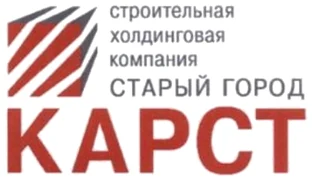
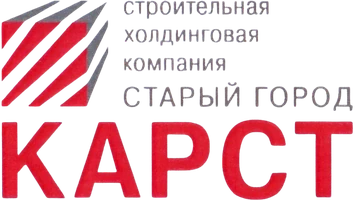
feat: логотипы партнёров в хорошем качестве

diff --git a/o-kompanii.html b/o-kompanii.html
@@ -19,8 +19,8 @@
 <link rel="preconnect" href="https://fonts.googleapis.com">
 <link rel="preconnect" href="https://fonts.gstatic.com" crossorigin>
 <link rel="stylesheet" href="https://fonts.googleapis.com/css2?family=Forum&family=Manrope:wght@400;500;600;700;800&display=swap">
-<link rel="stylesheet" href="css/site.css?v=mwvo2v0e">
-<link rel="stylesheet" href="css/variant.css?v=mwvo2v0e">
+<link rel="stylesheet" href="css/site.css?v=mwvoab7h">
+<link rel="stylesheet" href="css/variant.css?v=mwvoab7h">
 <script>document.documentElement.classList.add('js')</script>
 </head>
 <body class="v-foto">
@@ -56,6 +56,22 @@
   <div class="wrap">
     <div class="sec-head rv"><span class="eyebrow">Партнёры</span><h2>Наши партнёры</h2><p class="sub">Работаем с крупными строительными и промышленными компаниями России.</p></div>
     <ul class="partners"><li class="partner rv"><img src="img/partners/mostotrest.webp" alt="Мостотрест" title="Мостотрест" loading="lazy" decoding="async"></li><li class="partner rv"><img src="img/partners/specmost.webp" alt="Спецмост" title="Спецмост" loading="lazy" decoding="async"></li><li class="partner rv"><img src="img/partners/mostostroy-6.webp" alt="Мостострой-6" title="Мостострой-6" loading="lazy" decoding="async"></li><li class="partner rv"><img src="img/partners/volgatransstroy.webp" alt="Группа компаний «Волгатрансстрой»" title="Группа компаний «Волгатрансстрой»" loading="lazy" decoding="async"></li><li class="partner rv"><img src="img/partners/uvz.webp" alt="Уралвагонзавод" title="Уралвагонзавод" loading="lazy" decoding="async"></li><li class="partner rv"><img src="img/partners/moselektroshchit.webp" alt="Мосэлектрощит" title="Мосэлектрощит" loading="lazy" decoding="async"></li><li class="partner rv"><img src="img/partners/osk-1520.webp" alt="Объединённая строительная компания 1520" title="Объединённая строительная компания 1520" loading="lazy" decoding="async"></li><li class="partner rv"><img src="img/partners/karst.webp" alt="Строительная холдинговая компания «Старый город» КАРСТ" title="Строительная холдинговая компания «Старый город» КАРСТ" loading="lazy" decoding="async"></li><li class="partner rv"><img src="img/partners/us-620.webp" alt="620 Управление строительства" title="620 Управление строительства" loading="lazy" decoding="async"></li><li class="partner rv"><img src="img/partners/moselektro.webp" alt="Мосэлектро" title="Мосэлектро" loading="lazy" decoding="async"></li><li class="partner rv"><img src="img/partners/mostootryad-47.webp" alt="Мостоотряд-47 ФСК" title="Мостоотряд-47 ФСК" loading="lazy" decoding="async"></li><li class="partner rv"><img src="img/partners/rotfront.webp" alt="Рот Фронт" title="Рот Фронт" loading="lazy" decoding="async"></li><li class="partner rv"><img src="img/partners/mostostroy-11.webp" alt="Мостострой-11" title="Мостострой-11" loading="lazy" decoding="async"></li><li class="partner rv"><img src="img/partners/promstroy-nn.webp" alt="Дорожно-строительная компания «Промстрой НН»" title="Дорожно-строительная компания «Промстрой НН»" loading="lazy" decoding="async"></li></ul>
+  </div>
+</section>
+
+<section class="sec objects-sec" id="obekty">
+  <div class="wrap">
+    <div class="sec-head rv"><span class="eyebrow">Объекты</span><h2>Наши объекты</h2><p class="sub">Работали на стройках федерального масштаба.</p></div>
+    <div class="objects"><article class="object rv">
+      <div class="object-pic"><img class="photo-img" src="img/photos/s/obj-lakhta.jpg" alt="Многофункциональный комплекс «Лахта-центр»" width="640" height="427" loading="lazy" decoding="async"></div>
+      <div class="object-body"><span class="object-city">г. Санкт-Петербург</span><h3>Многофункциональный комплекс «Лахта-центр»</h3><p>Штаб-квартира группы «Газпром» и общественные пространства. Самый высокий небоскрёб России и Европы.</p></div>
+    </article><article class="object rv">
+      <div class="object-pic"><img class="photo-img" src="img/photos/s/obj-stadium-nn.jpg" alt="Стадион «Нижний Новгород»" width="640" height="320" loading="lazy" decoding="async"></div>
+      <div class="object-body"><span class="object-city">г. Нижний Новгород</span><h3>Стадион «Нижний Новгород»</h3><p>Построен к чемпионату мира по футболу 2018 года. Наши специалисты участвовали в возведении стадиона.</p></div>
+    </article><article class="object rv">
+      <div class="object-pic"><img class="photo-img" src="img/photos/s/obj-sochi-airport.jpg" alt="Международный аэропорт Сочи" width="640" height="400" loading="lazy" decoding="async"></div>
+      <div class="object-body"><span class="object-city">г. Сочи</span><h3>Международный аэропорт Сочи</h3><p>Включён в программу строительства олимпийских объектов к зимним Играм 2014 года.</p></div>
+    </article></div>
   </div>
 </section>
 <section class="sec sec-ice">
@@ -138,7 +154,7 @@
   <button class="btn btn-main btn-sm" type="button" data-cookie-ok>Понятно</button>
 </div>
 
-<script src="js/config.js?v=mwvo2v0e"></script>
-<script src="js/site.js?v=mwvo2v0e" defer></script>
+<script src="js/config.js?v=mwvoab7h"></script>
+<script src="js/site.js?v=mwvoab7h" defer></script>
 </body>
 </html>

diff --git a/index.html b/index.html
@@ -19,8 +19,8 @@
 <link rel="preconnect" href="https://fonts.googleapis.com">
 <link rel="preconnect" href="https://fonts.gstatic.com" crossorigin>
 <link rel="stylesheet" href="https://fonts.googleapis.com/css2?family=Forum&family=Manrope:wght@400;500;600;700;800&display=swap">
-<link rel="stylesheet" href="css/site.css?v=mwvo2v0e">
-<link rel="stylesheet" href="css/variant.css?v=mwvo2v0e">
+<link rel="stylesheet" href="css/site.css?v=mwvoab7h">
+<link rel="stylesheet" href="css/variant.css?v=mwvoab7h">
 <script>document.documentElement.classList.add('js')</script>
 </head>
 <body class="is-home v-foto">
@@ -161,6 +161,22 @@
   </div>
 </section>
 
+<section class="sec objects-sec" id="obekty">
+  <div class="wrap">
+    <div class="sec-head rv"><span class="eyebrow">Объекты</span><h2>Наши объекты</h2><p class="sub">Работали на стройках федерального масштаба.</p></div>
+    <div class="objects"><article class="object rv">
+      <div class="object-pic"><img class="photo-img" src="img/photos/s/obj-lakhta.jpg" alt="Многофункциональный комплекс «Лахта-центр»" width="640" height="427" loading="lazy" decoding="async"></div>
+      <div class="object-body"><span class="object-city">г. Санкт-Петербург</span><h3>Многофункциональный комплекс «Лахта-центр»</h3><p>Штаб-квартира группы «Газпром» и общественные пространства. Самый высокий небоскрёб России и Европы.</p></div>
+    </article><article class="object rv">
+      <div class="object-pic"><img class="photo-img" src="img/photos/s/obj-stadium-nn.jpg" alt="Стадион «Нижний Новгород»" width="640" height="320" loading="lazy" decoding="async"></div>
+      <div class="object-body"><span class="object-city">г. Нижний Новгород</span><h3>Стадион «Нижний Новгород»</h3><p>Построен к чемпионату мира по футболу 2018 года. Наши специалисты участвовали в возведении стадиона.</p></div>
+    </article><article class="object rv">
+      <div class="object-pic"><img class="photo-img" src="img/photos/s/obj-sochi-airport.jpg" alt="Международный аэропорт Сочи" width="640" height="400" loading="lazy" decoding="async"></div>
+      <div class="object-body"><span class="object-city">г. Сочи</span><h3>Международный аэропорт Сочи</h3><p>Включён в программу строительства олимпийских объектов к зимним Играм 2014 года.</p></div>
+    </article></div>
+  </div>
+</section>
+
 <section class="sec sec-ice">
   <div class="wrap">
     <div class="sec-head sec-head-row rv"><div><span class="eyebrow">Отзывы</span><h2>Что говорят сотрудники</h2></div>
@@ -265,7 +281,7 @@
   <button class="btn btn-main btn-sm" type="button" data-cookie-ok>Понятно</button>
 </div>
 
-<script src="js/config.js?v=mwvo2v0e"></script>
-<script src="js/site.js?v=mwvo2v0e" defer></script>
+<script src="js/config.js?v=mwvoab7h"></script>
+<script src="js/site.js?v=mwvoab7h" defer></script>
 </body>
 </html>

diff --git a/credits.html b/credits.html
@@ -19,8 +19,8 @@
 <link rel="preconnect" href="https://fonts.googleapis.com">
 <link rel="preconnect" href="https://fonts.gstatic.com" crossorigin>
 <link rel="stylesheet" href="https://fonts.googleapis.com/css2?family=Forum&family=Manrope:wght@400;500;600;700;800&display=swap">
-<link rel="stylesheet" href="css/site.css?v=mwvo2v0e">
-<link rel="stylesheet" href="css/variant.css?v=mwvo2v0e">
+<link rel="stylesheet" href="css/site.css?v=mwvoab7h">
+<link rel="stylesheet" href="css/variant.css?v=mwvoab7h">
 <script>document.documentElement.classList.add('js')</script>
 </head>
 <body class="v-foto">
@@ -90,6 +90,21 @@
       <div><b>Монтажник</b>
         <span>Монтажник</span>
         <span>Фото предоставлено компанией</span></div>
+    </li><li class="cred">
+      <img src="img/photos/s/obj-lakhta.jpg" alt="" width="120" height="80" loading="lazy" decoding="async">
+      <div><b>Лахта-центр, Санкт-Петербург</b>
+        <span>Лахта-центр, Санкт-Петербург · автор: Linus Folke Jensen</span>
+        <span>Лицензия: CC BY-SA 4.0 · источник: Wikimedia Commons · <a href="https://commons.wikimedia.org/wiki/File:Lakhta_Center_July_2019_(2).jpg" target="_blank" rel="noopener nofollow">страница фото</a></span></div>
+    </li><li class="cred">
+      <img src="img/photos/s/obj-sochi-airport.jpg" alt="" width="120" height="80" loading="lazy" decoding="async">
+      <div><b>Международный аэропорт Сочи</b>
+        <span>Международный аэропорт Сочи · автор: Vasilii Martynov</span>
+        <span>Лицензия: CC0 · источник: Wikimedia Commons · <a href="https://commons.wikimedia.org/wiki/File:Sochi_International_Airport_1.jpg" target="_blank" rel="noopener nofollow">страница фото</a></span></div>
+    </li><li class="cred">
+      <img src="img/photos/s/obj-stadium-nn.jpg" alt="" width="120" height="80" loading="lazy" decoding="async">
+      <div><b>Стадион «Нижний Новгород»</b>
+        <span>Стадион «Нижний Новгород» · автор: A.Savin</span>
+        <span>Лицензия: FAL · источник: Wikimedia Commons · <a href="https://commons.wikimedia.org/wiki/File:Nizhny_Novgorod_Stadium_asv2019-05.jpg" target="_blank" rel="noopener nofollow">страница фото</a></span></div>
     </li><li class="cred">
       <img src="img/photos/s/raznorabochiy.jpg" alt="" width="120" height="80" loading="lazy" decoding="async">
       <div><b>Объект: подготовка площадки</b>
@@ -169,7 +184,7 @@
   <button class="btn btn-main btn-sm" type="button" data-cookie-ok>Понятно</button>
 </div>
 
-<script src="js/config.js?v=mwvo2v0e"></script>
-<script src="js/site.js?v=mwvo2v0e" defer></script>
+<script src="js/config.js?v=mwvoab7h"></script>
+<script src="js/site.js?v=mwvoab7h" defer></script>
 </body>
 </html>

diff --git a/css/site.css b/css/site.css
@@ -520,3 +520,16 @@ a.net:not(.is-off):hover{border-color:var(--navy);background:var(--ice0)}
 .tf-hp{position:absolute;left:-9999px;width:1px;height:1px;overflow:hidden}
 .train-form{position:relative}
 .train-form button[disabled]{opacity:.7;cursor:wait}
+
+/* ---------- наши объекты ---------- */
+.objects-sec{padding-top:0}
+.objects{display:grid;grid-template-columns:repeat(3,1fr);gap:18px}
+.object{background:#fff;border:1px solid var(--line);border-radius:var(--r);overflow:hidden;display:flex;flex-direction:column}
+.object-pic{aspect-ratio:16/10;overflow:hidden;background:var(--ice0,#eef5fc)}
+.object-pic .photo-img{width:100%;height:100%;object-fit:cover;display:block;transition:transform .5s}
+.object:hover .object-pic .photo-img{transform:scale(1.04)}
+.object-body{padding:18px 20px 22px}
+.object-city{display:block;font-size:12px;font-weight:700;letter-spacing:.12em;text-transform:uppercase;color:var(--muted)}
+.object-body h3{font-size:19px;font-weight:800;color:var(--navy);margin:6px 0 8px;line-height:1.25}
+.object-body p{color:var(--text);font-size:15px;margin:0}
+@media (max-width:900px){.objects{grid-template-columns:1fr}}

diff --git a/404.html b/404.html
@@ -19,8 +19,8 @@
 <link rel="preconnect" href="https://fonts.googleapis.com">
 <link rel="preconnect" href="https://fonts.gstatic.com" crossorigin>
 <link rel="stylesheet" href="https://fonts.googleapis.com/css2?family=Forum&family=Manrope:wght@400;500;600;700;800&display=swap">
-<link rel="stylesheet" href="/sibir-region-demo/css/site.css?v=mwvo2v0e">
-<link rel="stylesheet" href="/sibir-region-demo/css/variant.css?v=mwvo2v0e">
+<link rel="stylesheet" href="/sibir-region-demo/css/site.css?v=mwvoab7h">
+<link rel="stylesheet" href="/sibir-region-demo/css/variant.css?v=mwvoab7h">
 <script>document.documentElement.classList.add('js')</script>
 </head>
 <body class="v-foto">
@@ -116,7 +116,7 @@
   <button class="btn btn-main btn-sm" type="button" data-cookie-ok>Понятно</button>
 </div>
 
-<script src="/sibir-region-demo/js/config.js?v=mwvo2v0e"></script>
-<script src="/sibir-region-demo/js/site.js?v=mwvo2v0e" defer></script>
+<script src="/sibir-region-demo/js/config.js?v=mwvoab7h"></script>
+<script src="/sibir-region-demo/js/site.js?v=mwvoab7h" defer></script>
 </body>
 </html>

diff --git a/vakansiya/armaturshchik.html b/vakansiya/armaturshchik.html
@@ -19,8 +19,8 @@
 <link rel="preconnect" href="https://fonts.googleapis.com">
 <link rel="preconnect" href="https://fonts.gstatic.com" crossorigin>
 <link rel="stylesheet" href="https://fonts.googleapis.com/css2?family=Forum&family=Manrope:wght@400;500;600;700;800&display=swap">
-<link rel="stylesheet" href="../css/site.css?v=mwvo2v0e">
-<link rel="stylesheet" href="../css/variant.css?v=mwvo2v0e">
+<link rel="stylesheet" href="../css/site.css?v=mwvoab7h">
+<link rel="stylesheet" href="../css/variant.css?v=mwvoab7h">
 <script>document.documentElement.classList.add('js')</script>
 </head>
 <body class="v-foto">
@@ -186,7 +186,7 @@
   <button class="btn btn-main btn-sm" type="button" data-cookie-ok>Понятно</button>
 </div>
 
-<script src="../js/config.js?v=mwvo2v0e"></script>
-<script src="../js/site.js?v=mwvo2v0e" defer></script>
+<script src="../js/config.js?v=mwvoab7h"></script>
+<script src="../js/site.js?v=mwvoab7h" defer></script>
 </body>
 </html>

diff --git a/vakansiya/betonshchik.html b/vakansiya/betonshchik.html
@@ -19,8 +19,8 @@
 <link rel="preconnect" href="https://fonts.googleapis.com">
 <link rel="preconnect" href="https://fonts.gstatic.com" crossorigin>
 <link rel="stylesheet" href="https://fonts.googleapis.com/css2?family=Forum&family=Manrope:wght@400;500;600;700;800&display=swap">
-<link rel="stylesheet" href="../css/site.css?v=mwvo2v0e">
-<link rel="stylesheet" href="../css/variant.css?v=mwvo2v0e">
+<link rel="stylesheet" href="../css/site.css?v=mwvoab7h">
+<link rel="stylesheet" href="../css/variant.css?v=mwvoab7h">
 <script>document.documentElement.classList.add('js')</script>
 </head>
 <body class="v-foto">
@@ -186,7 +186,7 @@
   <button class="btn btn-main btn-sm" type="button" data-cookie-ok>Понятно</button>
 </div>
 
-<script src="../js/config.js?v=mwvo2v0e"></script>
-<script src="../js/site.js?v=mwvo2v0e" defer></script>
+<script src="../js/config.js?v=mwvoab7h"></script>
+<script src="../js/site.js?v=mwvoab7h" defer></script>
 </body>
 </html>

diff --git a/vakansiya/elektromontazhnik.html b/vakansiya/elektromontazhnik.html
@@ -19,8 +19,8 @@
 <link rel="preconnect" href="https://fonts.googleapis.com">
 <link rel="preconnect" href="https://fonts.gstatic.com" crossorigin>
 <link rel="stylesheet" href="https://fonts.googleapis.com/css2?family=Forum&family=Manrope:wght@400;500;600;700;800&display=swap">
-<link rel="stylesheet" href="../css/site.css?v=mwvo2v0e">
-<link rel="stylesheet" href="../css/variant.css?v=mwvo2v0e">
+<link rel="stylesheet" href="../css/site.css?v=mwvoab7h">
+<link rel="stylesheet" href="../css/variant.css?v=mwvoab7h">
 <script>document.documentElement.classList.add('js')</script>
 </head>
 <body class="v-foto">
@@ -186,7 +186,7 @@
   <button class="btn btn-main btn-sm" type="button" data-cookie-ok>Понятно</button>
 </div>
 
-<script src="../js/config.js?v=mwvo2v0e"></script>
-<script src="../js/site.js?v=mwvo2v0e" defer></script>
+<script src="../js/config.js?v=mwvoab7h"></script>
+<script src="../js/site.js?v=mwvoab7h" defer></script>
 </body>
 </html>

diff --git a/vakansiya/gruzchik.html b/vakansiya/gruzchik.html
@@ -19,8 +19,8 @@
 <link rel="preconnect" href="https://fonts.googleapis.com">
 <link rel="preconnect" href="https://fonts.gstatic.com" crossorigin>
 <link rel="stylesheet" href="https://fonts.googleapis.com/css2?family=Forum&family=Manrope:wght@400;500;600;700;800&display=swap">
-<link rel="stylesheet" href="../css/site.css?v=mwvo2v0e">
-<link rel="stylesheet" href="../css/variant.css?v=mwvo2v0e">
+<link rel="stylesheet" href="../css/site.css?v=mwvoab7h">
+<link rel="stylesheet" href="../css/variant.css?v=mwvoab7h">
 <script>document.documentElement.classList.add('js')</script>
 </head>
 <body class="v-foto">
@@ -164,7 +164,7 @@
   <button class="btn btn-main btn-sm" type="button" data-cookie-ok>Понятно</button>
 </div>
 
-<script src="../js/config.js?v=mwvo2v0e"></script>
-<script src="../js/site.js?v=mwvo2v0e" defer></script>
+<script src="../js/config.js?v=mwvoab7h"></script>
+<script src="../js/site.js?v=mwvoab7h" defer></script>
 </body>
 </html>

diff --git a/vakansiya/izolirovshchik.html b/vakansiya/izolirovshchik.html
@@ -19,8 +19,8 @@
 <link rel="preconnect" href="https://fonts.googleapis.com">
 <link rel="preconnect" href="https://fonts.gstatic.com" crossorigin>
 <link rel="stylesheet" href="https://fonts.googleapis.com/css2?family=Forum&family=Manrope:wght@400;500;600;700;800&display=swap">
-<link rel="stylesheet" href="../css/site.css?v=mwvo2v0e">
-<link rel="stylesheet" href="../css/variant.css?v=mwvo2v0e">
+<link rel="stylesheet" href="../css/site.css?v=mwvoab7h">
+<link rel="stylesheet" href="../css/variant.css?v=mwvoab7h">
 <script>document.documentElement.classList.add('js')</script>
 </head>
 <body class="v-foto">
@@ -187,7 +187,7 @@
   <button class="btn btn-main btn-sm" type="button" data-cookie-ok>Понятно</button>
 </div>
 
-<script src="../js/config.js?v=mwvo2v0e"></script>
-<script src="../js/site.js?v=mwvo2v0e" defer></script>
+<script src="../js/config.js?v=mwvoab7h"></script>
+<script src="../js/site.js?v=mwvoab7h" defer></script>
 </body>
 </html>

diff --git a/vakansiya/komplektovshchik.html b/vakansiya/komplektovshchik.html
@@ -19,8 +19,8 @@
 <link rel="preconnect" href="https://fonts.googleapis.com">
 <link rel="preconnect" href="https://fonts.gstatic.com" crossorigin>
 <link rel="stylesheet" href="https://fonts.googleapis.com/css2?family=Forum&family=Manrope:wght@400;500;600;700;800&display=swap">
-<link rel="stylesheet" href="../css/site.css?v=mwvo2v0e">
-<link rel="stylesheet" href="../css/variant.css?v=mwvo2v0e">
+<link rel="stylesheet" href="../css/site.css?v=mwvoab7h">
+<link rel="stylesheet" href="../css/variant.css?v=mwvoab7h">
 <script>document.documentElement.classList.add('js')</script>
 </head>
 <body class="v-foto">
@@ -164,7 +164,7 @@
   <button class="btn btn-main btn-sm" type="button" data-cookie-ok>Понятно</button>
 </div>
 
-<script src="../js/config.js?v=mwvo2v0e"></script>
-<script src="../js/site.js?v=mwvo2v0e" defer></script>
+<script src="../js/config.js?v=mwvoab7h"></script>
+<script src="../js/site.js?v=mwvoab7h" defer></script>
 </body>
 </html>

diff --git a/vakansiya/montazhnik-vysotnik.html b/vakansiya/montazhnik-vysotnik.html
@@ -19,8 +19,8 @@
 <link rel="preconnect" href="https://fonts.googleapis.com">
 <link rel="preconnect" href="https://fonts.gstatic.com" crossorigin>
 <link rel="stylesheet" href="https://fonts.googleapis.com/css2?family=Forum&family=Manrope:wght@400;500;600;700;800&display=swap">
-<link rel="stylesheet" href="../css/site.css?v=mwvo2v0e">
-<link rel="stylesheet" href="../css/variant.css?v=mwvo2v0e">
+<link rel="stylesheet" href="../css/site.css?v=mwvoab7h">
+<link rel="stylesheet" href="../css/variant.css?v=mwvoab7h">
 <script>document.documentElement.classList.add('js')</script>
 </head>
 <body class="v-foto">
@@ -187,7 +187,7 @@
   <button class="btn btn-main btn-sm" type="button" data-cookie-ok>Понятно</button>
 </div>
 
-<script src="../js/config.js?v=mwvo2v0e"></script>
-<script src="../js/site.js?v=mwvo2v0e" defer></script>
+<script src="../js/config.js?v=mwvoab7h"></script>
+<script src="../js/site.js?v=mwvoab7h" defer></script>
 </body>
 </html>
